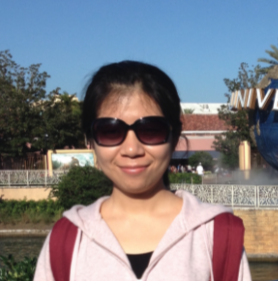
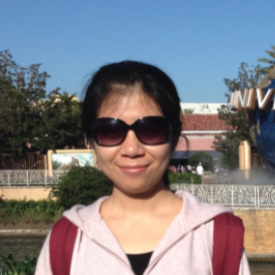
update pic size and bios

diff --git a/bios/melissa.html b/bios/melissa.html
@@ -1,0 +1,43 @@
+<!--
+SAVE this file as firstname.html
+INCLUDE a headshot, saving it as firstname.png or firstname.jpg
+EDIT the source below, following the commented instructions (there are 6 steps)
+DO NOT edit the general structure of the file
+DO follow the structure of current bios on the site
+-->
+
+
+<!DOCTYPE html>
+<html><head><meta http-equiv="Content-Type" content="text/html; charset=UTF-8">
+<link type="text/css" href="../../css/styles.css" rel="stylesheet">
+<link href="http://maxcdn.bootstrapcdn.com/font-awesome/4.2.0/css/font-awesome.min.css" rel="stylesheet">
+<link href='http://fonts.googleapis.com/css?family=Nunito:400,300,700' rel='stylesheet' type='text/css'>
+<link href="../../css/bootstrap.min.css" rel="stylesheet">
+
+
+<title>Melissa Li</title>      			<!-- 1. REPLACE Fullname with your first and last name (middle name/initials optional) -->
+
+</head>
+
+<body>
+
+<div class="container-float">
+	<div class="row">
+		<div>
+            <img class="circle-headshot"
+				 src="melissa.png"> 	<!-- 2. REPLACE template.png with the filename of your headshot -->	
+        </div>
+        <div class="col-xs-12 col-sm-8 bio">
+            <h2>Melissa Li</h2> 			<!-- 3. REPLACE Fullname with your first and last name (middle name/initials optional) -->
+            <h3>B.A. & Sc. Student</h3> 				<!-- 4. REPLACE Title with your title or role in the lab (see current members for examples) -->
+            <p>Melissa is an undergraduate student currently pursuing a Bachelors of Arts and Science in Cognitive Science at McGill University. She joined the ACT lab to research and design user experiences that enhance accessibility and usability of smart devices for older adults. Previously, she has worked at the Montreal Neurological Institute and the Data Science and Artificial Intelligence Research (DSAIR) lab at Nanyang Technological University, where she focused on emotional learning tools for children with special needs. Currently, Melissa's interests lie at the intersection of design, psychology and HCI, with a particular enthusiasm for digital equity and accessibility. </p> 			<!-- 5. REPLACE short bio with a 1-2 paragraph bio. Try to keep it short -->
+
+			<!-- 6. OPTIONAL: If you would like to link to a personal page, uncomment the following
+			(i.e, delete 1st and 3rd of next 3 lines) and add your site's address between "" -->
+            
+            <p><a href="https://www.melissa-li.com/">Personal Website</a></p>
+            
+        </div>
+    </div>
+</div>
+</body></html>

diff --git a/bios/muhe.html b/bios/muhe.html
@@ -1,0 +1,59 @@
+<!--
+SAVE this file as firstname.html
+INCLUDE a headshot, saving it as firstname.png or firstname.jpg
+EDIT the source below, following the commented instructions (there are 6 steps)
+DO NOT edit the general structure of the file
+DO follow the structure of current bios on the site
+-->
+
+<!DOCTYPE html>
+<html>
+  <head>
+    <meta http-equiv="Content-Type" content="text/html; charset=UTF-8" />
+    <link type="text/css" href="../css/styles.css" rel="stylesheet" />
+    <link
+      href="http://maxcdn.bootstrapcdn.com/font-awesome/4.2.0/css/font-awesome.min.css"
+      rel="stylesheet"
+    />
+    <link
+      href="http://fonts.googleapis.com/css?family=Nunito:400,300,700"
+      rel="stylesheet"
+      type="text/css"
+    />
+    <link href="../css/bootstrap.min.css" rel="stylesheet" />
+
+    <title>Muhe Yang</title>
+    <!-- 1. REPLACE Fullname with your first and last name (middle name/initials optional) -->
+  </head>
+
+  <body>
+    <div class="container-float">
+      <div class="row">
+        <div>
+          <img class="circle-headshot" src="muhe.png" />
+          <!-- 2. REPLACE template.png with the filename of your headshot -->
+        </div>
+        <div class="col-xs-12 col-sm-8 bio">
+          <h2>Muhe Yang</h2>
+          <!-- 3. REPLACE Fullname with your first and last name (middle name/initials optional) -->
+          <h3>PhD Student</h3>
+          <!-- 4. REPLACE Title with your title or role in the lab (see current members for examples) -->
+          <p>
+            Muhe is a PhD student in the School of Information Studies at McGill
+            University. She has background in Industrial Design as well as
+            Information Design and Visualization. Her doctoral research in human
+            computer interaction focuses on health-related persuasive technology
+            and explores how it works for behavior change.
+          </p>
+          <!-- 5. REPLACE short bio with a 1-2 paragraph bio. Try to keep it short -->
+
+          <!-- 6. OPTIONAL: If you would like to link to a personal page, uncomment the following
+			(i.e, delete 1st and 3rd of next 3 lines) and add your site's address between "" -->
+          <!--
+            <p><a href="">Personal Website</a></p>
+            -->
+        </div>
+      </div>
+    </div>
+  </body>
+</html>
